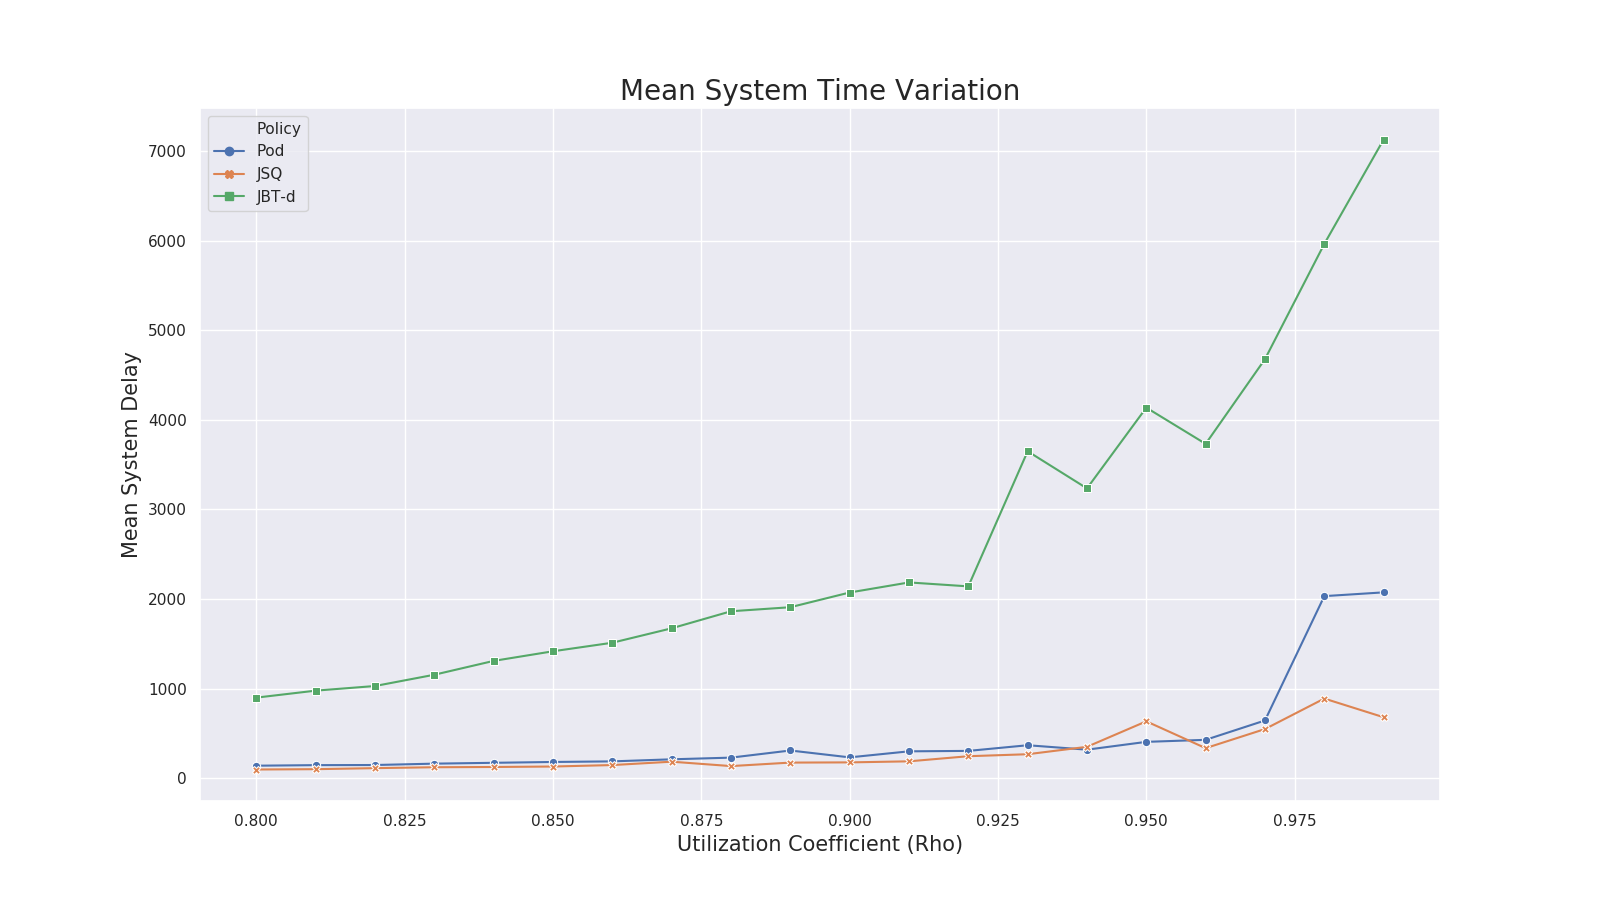
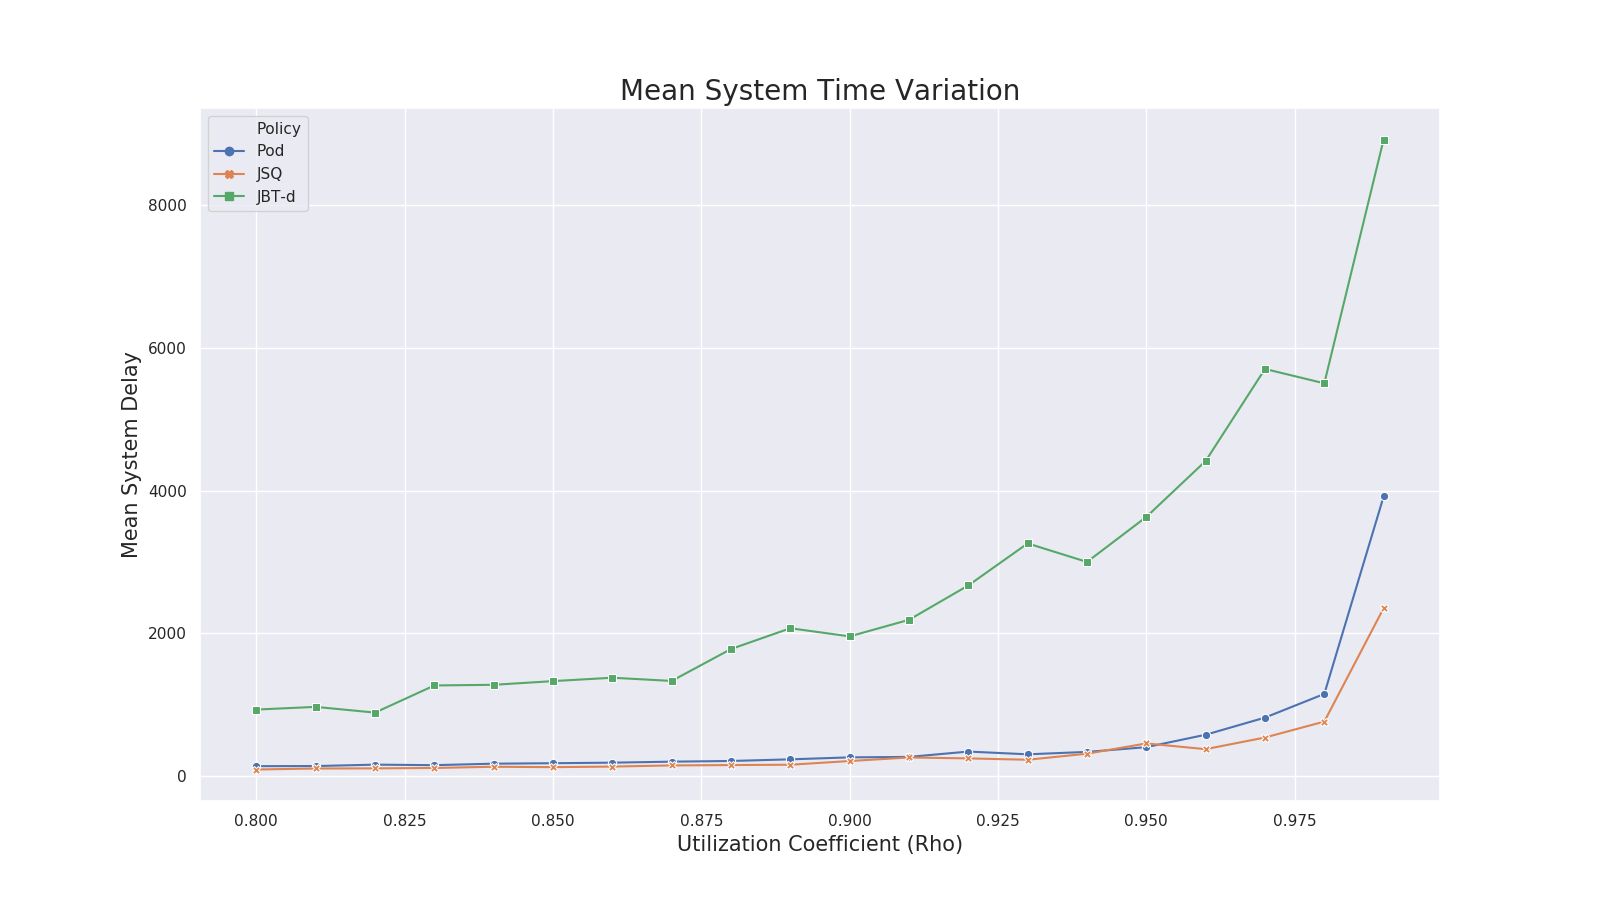
Add implementation for multiple simulations and confidence intervals

diff --git a/main.py b/main.py
@@ -6,67 +6,102 @@ from time import time
 from simulation_utils import Simulator, plot
 
 
-number_of_tasks = (10**4)
+number_of_tasks = (10**6)
 number_of_servers = 20
 d = 3
 rho_values = np.arange(0.8, 1., 0.01)
-multiple_sim = False
+multiple_sim = True
 n_sim = 5
 n_proc = mp.cpu_count()
+
+
+def perform_multiple_simulations(simulator, jbt=False):
+    mean_system_times_lists = []
+    mean_system_times = []
+    z = 1.96
+    lowers = []
+    uppers = []
+
+    for _ in range(n_sim):
+        mean_system_times_partial, overheads = simulator.multiprocessing_simulation(
+            rho_values, n_proc, jbt)
+        mean_system_times_lists.append(mean_system_times_partial)
+
+    for l in zip(*mean_system_times_lists):
+        mean, sigma = np.mean(l), np.std(l)
+        mean_system_times.append(np.mean(l))
+        lowers.append(mean - (z*sigma/np.sqrt(len(l))))
+        uppers.append(mean + (z*sigma/np.sqrt(len(l))))
+        confidence_intervals = (lowers, uppers)
+
+    return mean_system_times, confidence_intervals, overheads
 
 
 if __name__ == "__main__":
 
     mean_system_times = []
     mean_system_delays = []
-    mean_system_delays_lists = []
+    ci = None
 
     print("\nStarting simulation process...")
     start = time()
 
-    simulator = Simulator(number_of_tasks, number_of_servers, d)
-    mean_system_delays_jsq, overheads_jsq = simulator.multiprocessing_simulation(
-        rho_values, n_proc)
+    if multiple_sim:
+        # Pod-d simulation
+        simulator = Simulator(number_of_tasks, number_of_servers, d)
+        mean_system_times_pod, confidence_intervals_pod, overheads_pod = perform_multiple_simulations(
+            simulator)
 
-    # if multiple_sim:
-    #     for i in range(n_sim):
-    #         mean_system_delays_part = simulator.multiprocessing_simulation(
-    #             rho_values, n_proc)
-    #         mean_system_delays_lists.append(mean_system_delays_part)
-    #     mean_system_delays = [
-    #         sum(x)/n_sim for x in zip(*mean_system_delays_lists)]
+        # JSQ simulation
+        simulator = Simulator(
+            number_of_tasks, number_of_servers, number_of_servers)
+        mean_system_times_jsq, confidence_intervals_jsq, overheads_jsq = perform_multiple_simulations(
+            simulator)
 
-    # Pod-d simulation
-    simulator = Simulator(number_of_tasks, number_of_servers, d)
-    mean_system_delays_pod, overheads_pod = simulator.multiprocessing_simulation(
-        rho_values, n_proc)
+        # JBT-d simulation
+        simulator = Simulator(number_of_tasks, number_of_servers, d)
+        mean_system_times_jbt, confidence_intervals_jbt, overheads_jbt = perform_multiple_simulations(
+            simulator, True)
 
-    # JSQ simulation
-    simulator = Simulator(
-        number_of_tasks, number_of_servers, number_of_servers)
-    mean_system_delays_jsq, overheads_jsq = simulator.multiprocessing_simulation(
-        rho_values, n_proc)
+        filename = 'weibull_multiple_'
+        ci = [confidence_intervals_pod,
+              confidence_intervals_jsq,
+              confidence_intervals_jbt]
 
-    # JBT-d simulation
-    simulator = Simulator(number_of_tasks, number_of_servers, d)
-    mean_system_delays_jbt, overheads_jbt = simulator.multiprocessing_simulation(
-        rho_values, n_proc, jbt=True)
+    else:
+        # Pod-d simulation
+        simulator = Simulator(number_of_tasks, number_of_servers, d)
+        mean_system_times_pod, overheads_pod = simulator.multiprocessing_simulation(
+            rho_values, n_proc)
+
+        # JSQ simulation
+        simulator = Simulator(
+            number_of_tasks, number_of_servers, number_of_servers)
+        mean_system_times_jsq, overheads_jsq = simulator.multiprocessing_simulation(
+            rho_values, n_proc)
+
+        # JBT-d simulation
+        simulator = Simulator(number_of_tasks, number_of_servers, d)
+        mean_system_times_jbt, overheads_jbt = simulator.multiprocessing_simulation(
+            rho_values, n_proc, jbt=True)
+
+        filename = 'weibull_'
 
     end = time()
     print("Simulation completed in", int(end-start), "seconds!\n\n")
 
     data = {
         "Rho": rho_values,
-        "Pod": mean_system_delays_pod,
-        "JSQ": mean_system_delays_jsq,
-        "JBT-d": mean_system_delays_jbt
+        "Pod": mean_system_times_pod,
+        "JSQ": mean_system_times_jsq,
+        "JBT-d": mean_system_times_jbt
     }
     df = pd.DataFrame.from_dict(data)
-    ylabel = "Mean System Delay"
+    ylabel = "Mean System Time"
     df = df.melt('Rho', var_name='Policy',  value_name=ylabel)
-    path = './plots/weibull_' + str(number_of_tasks) + '.png'
+    path = './plots/' + filename + str(number_of_tasks) + '.png'
     plot(df, d, "Mean System Time Variation",
-         "Utilization Coefficient (Rho)", ylabel, path)
+         "Utilization Coefficient (Rho)", ylabel, path, ci)
 
     data = {
         "Rho": rho_values,

diff --git a/simulation_utils.py b/simulation_utils.py
@@ -13,12 +13,18 @@ def compute_interval_time_exp(t_0, q, y):
     return t_0 + (1-q)*y
 
 
-def plot(df, d, title, xlabel, ylabel, path):
+def plot(df, d, title, xlabel, ylabel, path, confidence_intervals=None):
     plt.figure(figsize=(16, 9))
     sns.set(style='darkgrid',)
     sns.lineplot(x='Rho', y=ylabel, data=df,
                  hue='Policy', style='Policy',
                  markers=True, dashes=False)
+
+    if confidence_intervals != None:
+        for (lower, upper) in confidence_intervals:
+            rho = df['Rho'].unique()
+            plt.fill_between(rho, lower, upper, alpha=0.3)
+
     plt.title(title, fontsize=20)
     plt.xlabel(xlabel, fontsize=15)
     plt.ylabel(ylabel, fontsize=15)
